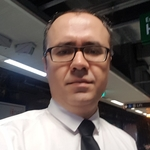
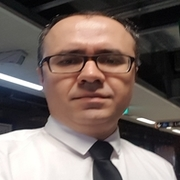
centered the image inside its column by addin class='mx-auto d-block' to its html tag

diff --git a/index.html b/index.html
@@ -32,18 +32,30 @@
         </div>
     </nav>
     <div class="container">
-        <article>
-            <h1>About Me</h1>
-            <div class="row">
-                <div class="col-lg-4">
-                    <img src="images/myself.jpg" alt="A picture of myself">
-                </div>
-                <div class="col-lg-8">
-                    One of three columns
-                </div>
+        <div class="row">
+          <div class="col-md-12">
+            <div class="page-header">
+              <h1>About Me</h1>
             </div>
-        </article>
-    </div>
+            <hr>
+            <div class="row">
+              <div class="col-md-3">
+                <img src="images/myself.jpg" alt="a picture of myself" class="mx-auto d-block">
+              </div>
+              <div class="col-md-9">
+                <p>
+                  Lorem ipsum dolor sit amet, consectetur adipiscing elit. Quisque dignissim, felis ut dictum tristique,
+                  nibh erat feugiat libero, sit amet fringilla mauris velit in mi. Duis tempus felis vitae
+                  felis vulputate pretium. Nullam commodo, est ac auctor ornare, eros nisi fringilla sem,
+                  non pulvinar tortor lorem sit amet sem. Aenean quis erat facilisis, porttitor ex cursus,
+                  luctus enim. Curabitur et metus in lacus tristique sagittis et in lorem. Nunc id nisi et
+                  neque fringilla ultricies. Aenean at feugiat elit, a posuere justo. Pellentesque egestas
+                  dolor et nisi venenatis, nec fermentum urna fringilla. Etiam efficitur porta purus, id
+                  posuere sem congue a.
+                </p>
+              </div>
+            </div>
+          </div>
     <script src="https://code.jquery.com/jquery-3.5.1.slim.min.js"
         integrity="sha384-DfXdz2htPH0lsSSs5nCTpuj/zy4C+OGpamoFVy38MVBnE+IbbVYUew+OrCXaRkfj"
         crossorigin="anonymous"></script>

diff --git a/style.css b/style.css
@@ -1,6 +1,7 @@
 body {
     background-image: url(images/background-paper.jpg);
 }
+
 .navbar-brand {
     background-color: #b0300b;
     color: #25322b;
@@ -10,24 +11,38 @@ body {
     margin-left: 40px;
     padding: 15px;
 }
+
 .navbar {
     padding: 0;
 }
+
 .nav-item.contact {
     margin-right: 40px;
 }
+
 .custom-nav {
     background-color: #e8f0f3;
 }
+
 .nav-link {
     color: #202d24;
 }
+
 .container {
-    width: 960;
+    width: 960px;
     background-color: #e8f0f3;
     margin-top: 30px;
+    margin-left: 40px;
 }
+
 .img {
     width: 150px;
     height: 150px;
 }
+
+h1 {
+    font-family: 'Times New Roman', Times, serif;
+    color: #202d24;
+    padding: 10px;
+}
+
